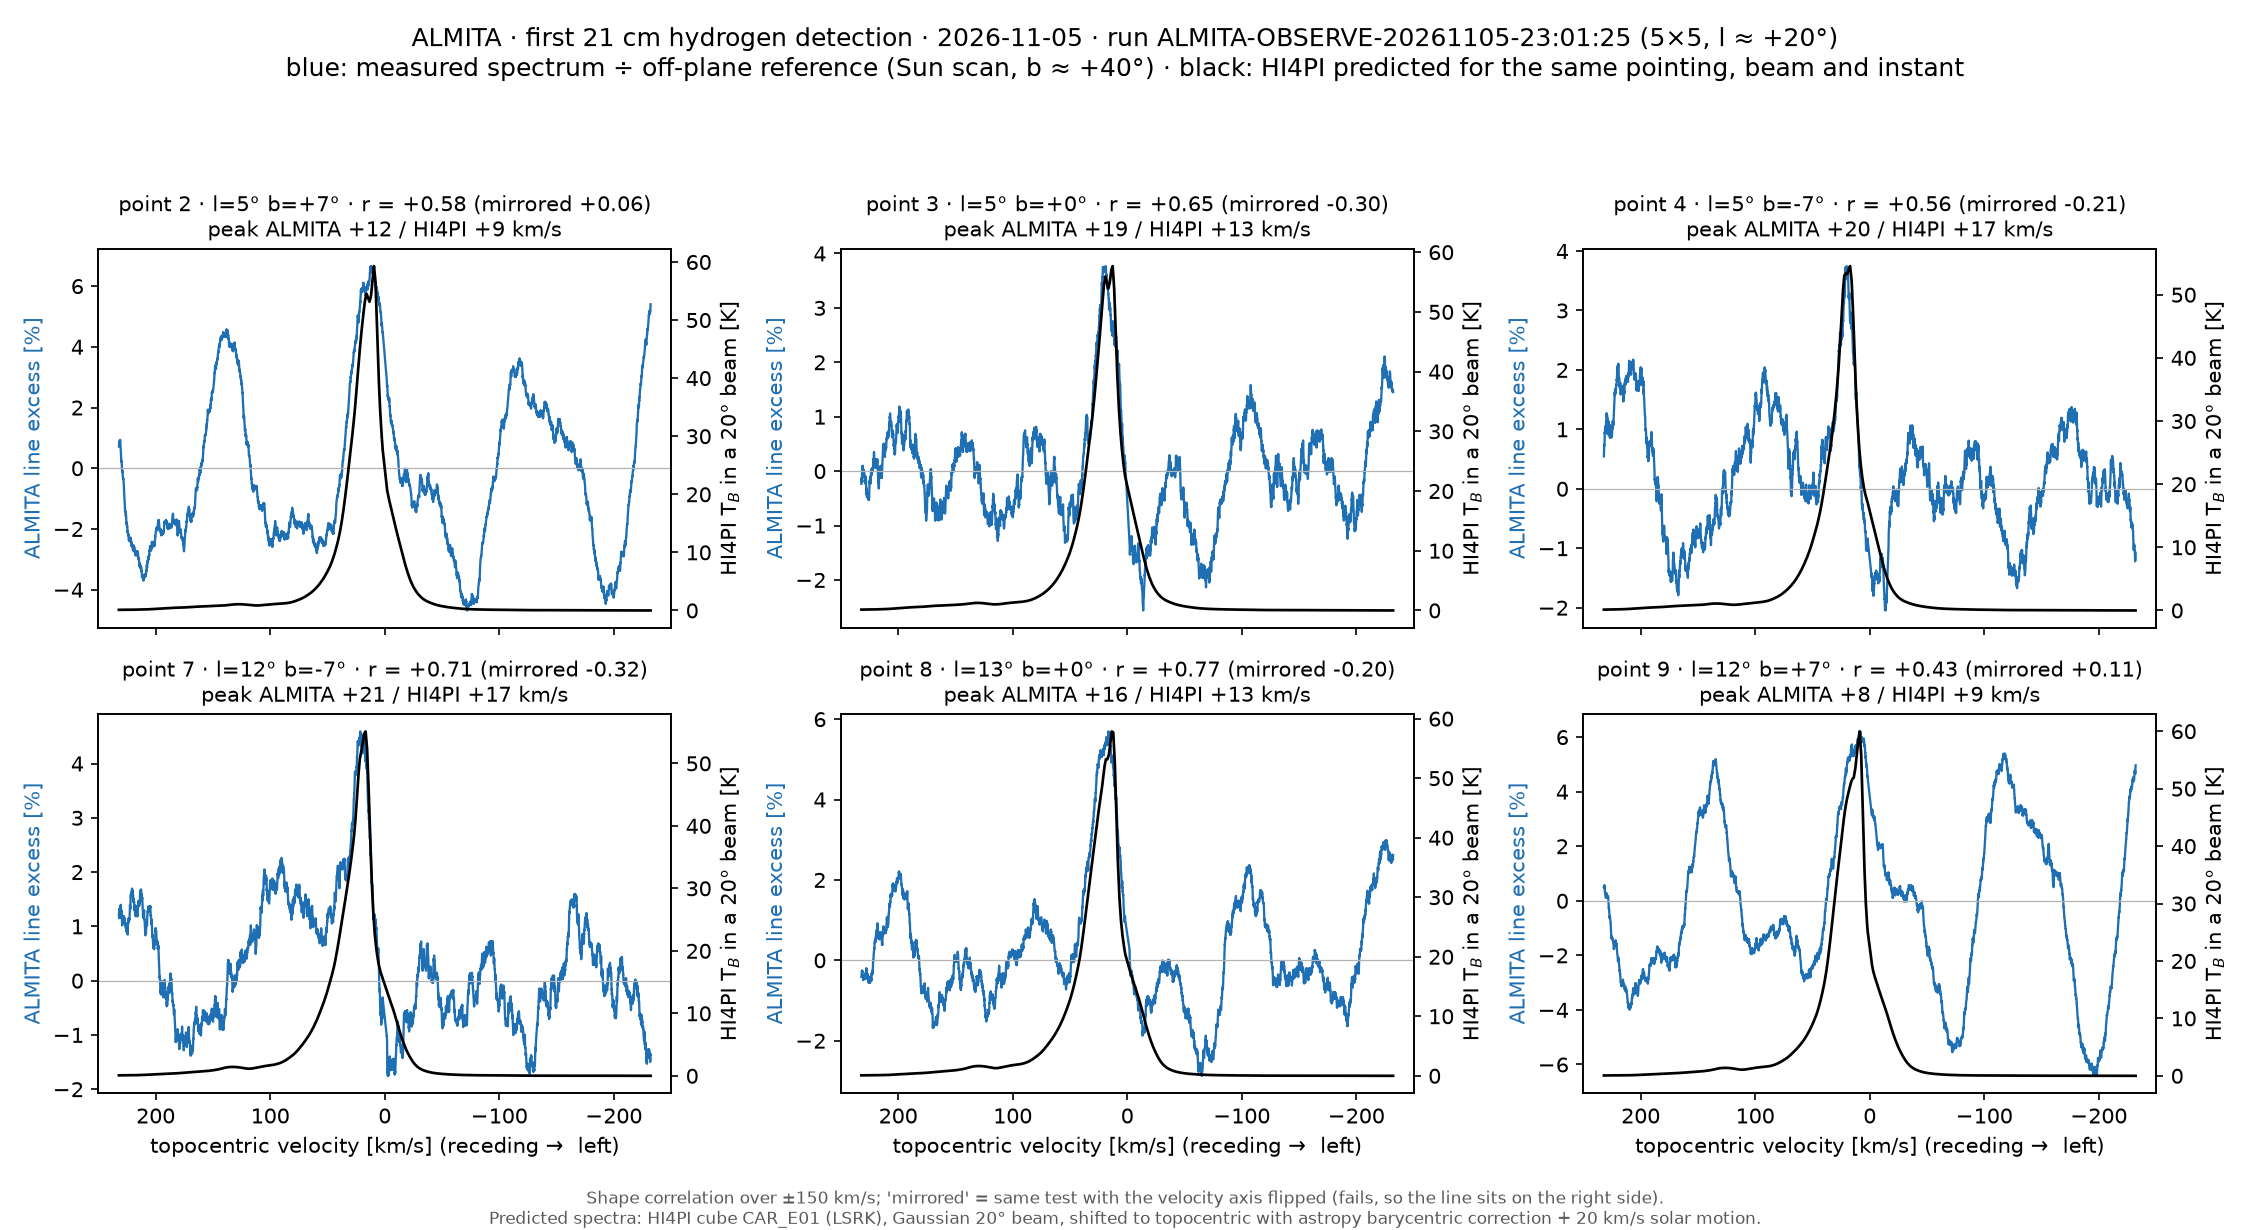
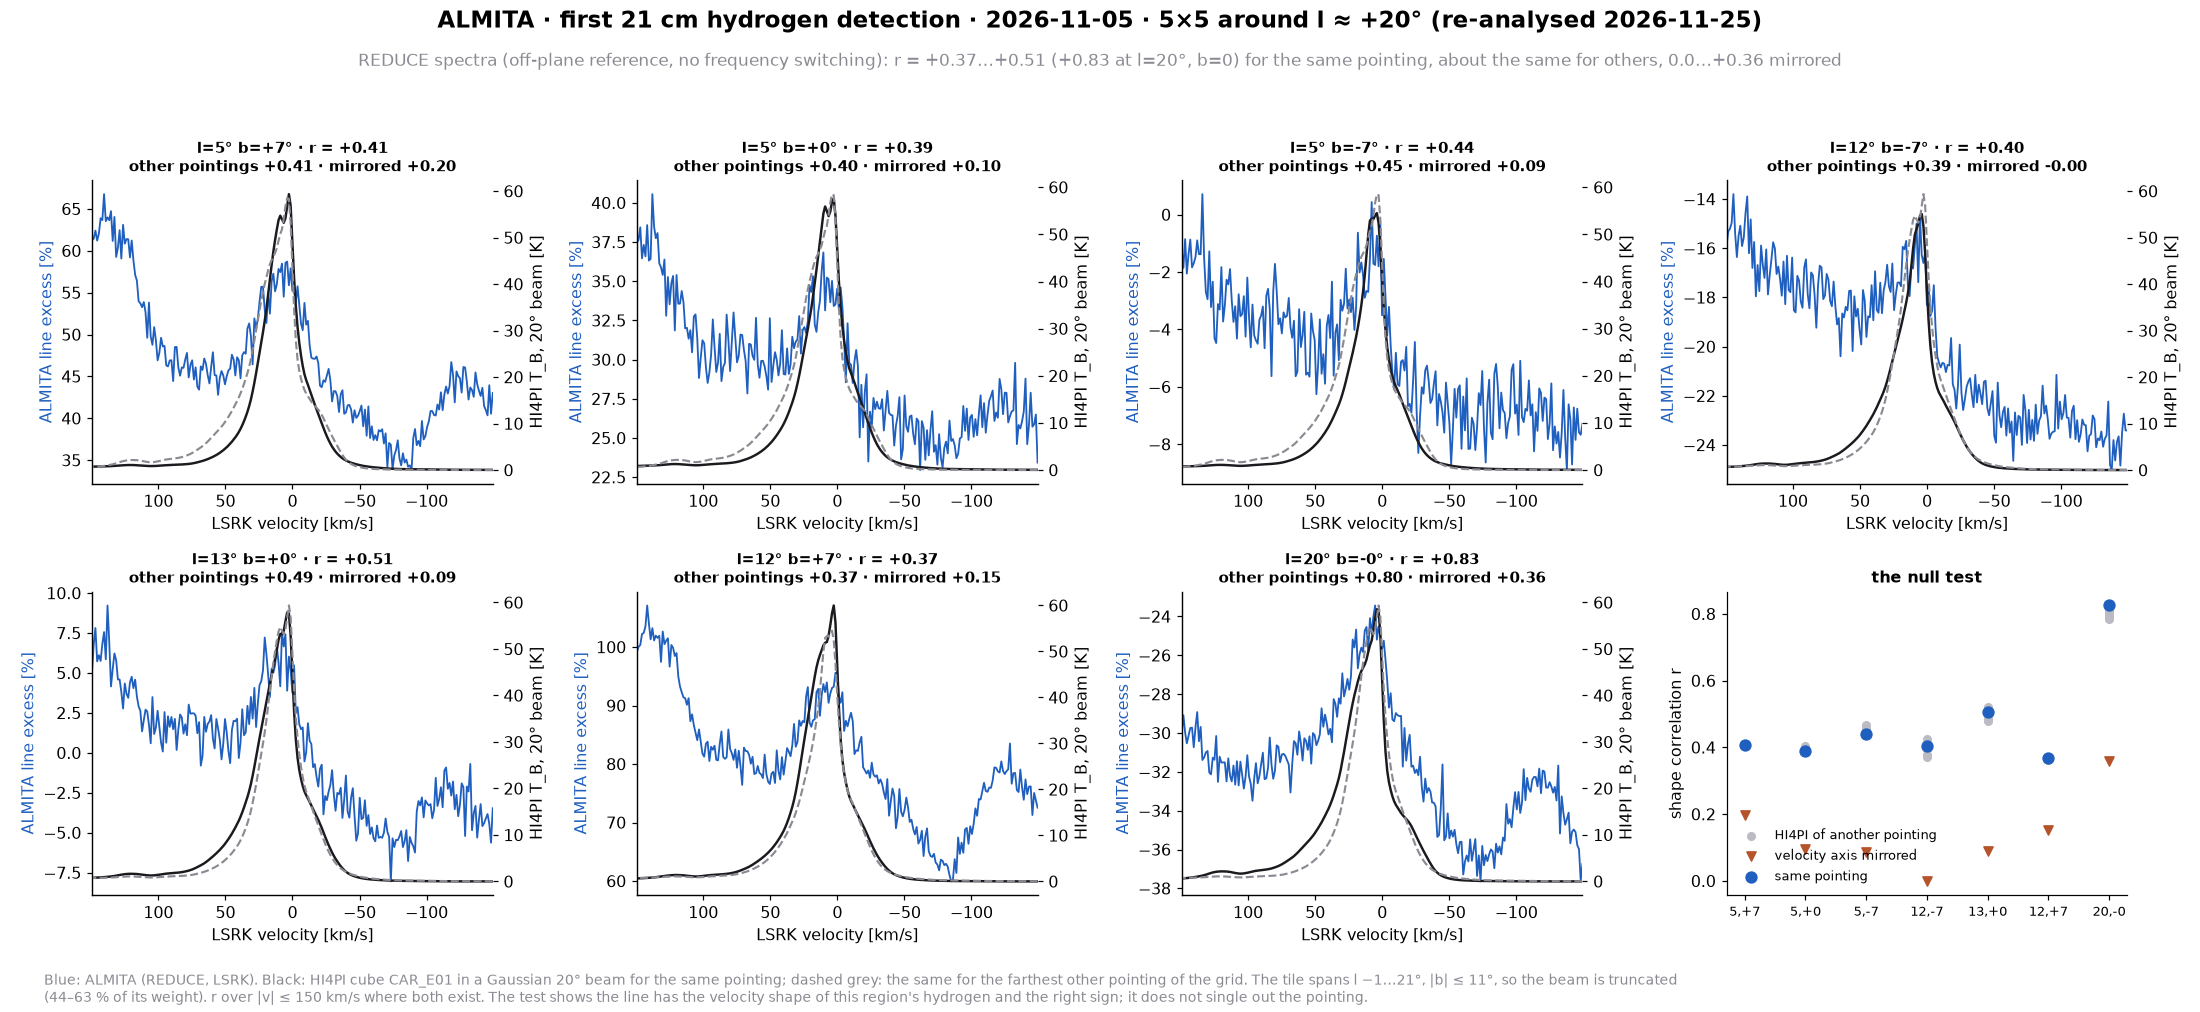
docs + site: results re-analysed (2026-11-25) - rotation speeds withdrawn, HI4PI matches with their null test
- 19-11: the disc's rotation holds; mean velocities now in a window symmetric about zero (+18 / 0 / -19 km/s;
  the off-centre switching windows had pushed them outward); the 200 +/- 15 and 218 +/- 5 km/s rotation speeds
  are withdrawn: the ON/OFF baseline wanders more than the edge threshold and half of V is the assumed V0.
  The l = +30 deg edge (+104 +/- 2 km/s) stays.
- 12-11 and 05-11: shape correlations with HI4PI shown against the null (another pointing correlates almost as
  well), the truncated beam stated, the retracted peak offset removed; 05-11 now from REDUCE (+0.37..+0.51).
- Bench numbers flagged as no longer re-checkable.
- The three result figures redrawn from the re-analysis.

diff --git a/docs/site/index.html b/docs/site/index.html
@@ -116,43 +116,47 @@
   <p>
     A full afternoon with the survey pilot running on its own: 99 captures of 2 minutes, none failed. Along the Galactic plane the hydrogen
     spreads to positive velocities on one side of the centre and to negative velocities on the other, and the spread grows away from the
-    centre: the disc rotates. A position-switched run at sunset gave rotation speeds of 200 ± 15 km/s at 2.8 kpc and 218 ± 5 km/s at 4.1 kpc
-    from the Galactic Centre, inside the range professional surveys measure.
+    centre: the disc rotates. A position-switched run at sunset puts the edge of the line at l = +30° at +104 ± 2 km/s; turning that into
+    a rotation speed still needs the Sun's own assumed speed for half of it, and at l = −20° the edge depends on the threshold
+    (re-analysis, 25 November 2026: the earlier 200 ± 15 and 218 ± 5 km/s are withdrawn).
   </p>
   <figure>
-    <a href="results/rotation_20261119.png"><img src="results/rotation_20261119.png" width="1980" height="1452" loading="lazy"
-         alt="ALMITA spectra along the Galactic plane, a map of mean hydrogen velocity, position-switched spectra and rotation speeds against the professional range"></a>
-    <figcaption>One afternoon, relative intensities, one ON/OFF run per direction: coarse numbers, not a calibrated curve. A 20° beam averages
-      a wide stretch of the Galaxy (l = −30° comes out high; l = ±10° and +20° gave no clean edge). The Magellanic Clouds were tried the same
+    <a href="results/rotation_20261119.png"><img src="results/rotation_20261119.png" width="1870" height="1375" loading="lazy"
+         alt="ALMITA spectra along the Galactic plane, the mean hydrogen velocity in symmetric and off-centre windows, position-switched spectra with their edges, and each rotation speed split into the measured edge and the assumed solar speed"></a>
+    <figcaption>One afternoon, relative intensities, one ON/OFF run per direction: coarse numbers, not a rotation curve. The ON/OFF baseline
+      wanders ±1–2 % (OFFs 20–40° higher than ONs) against an edge threshold of ~0.45 %, and a 20° beam averages a wide stretch of the Galaxy
+      (l = −30°, ±10° and +20° gave no clean edge). Mean velocities in a window symmetric about zero: +18 to −19 km/s from l = +30° to −30°. The Magellanic Clouds were tried the same
       evening and not detected: the rooftop direction they lie in is about 50 % noisier than the empty-sky references.</figcaption>
   </figure>
   <h3>Hydrogen with frequency switching, repeated and matched · 12 November 2026</h3>
   <p>
     A week later the same 5 × 5 mosaic around l ≈ +20° was observed again, now with frequency switching (40 s per pointing) and a new
-    feed with a Pawsey balun and a reflector plate. The line shows up in all 25 pointings. For the six pointings inside the reference
-    cube, the switched spectra match HI4PI's prediction for the same pointing and 20° beam with a shape correlation of
-    +0.94 to +0.99 (5 November: +0.43 to +0.77), on a flat baseline. The receiver's Y-factor was 4.71 dB, a system temperature of about 120 K.
+    feed with a Pawsey balun and a reflector plate. The line shows up in all 25 pointings. For the seven pointings inside the HI4PI tile,
+    the switched spectra have the velocity shape of this region's hydrogen (shape correlation +0.95 to +0.99, mirrored +0.29 to +0.65),
+    on a flat baseline. HI4PI's spectrum of another pointing correlates almost as well (+0.91 to +0.98), so this is not a
+    pointing-by-pointing match. The receiver's Y-factor was 4.71 dB, a system temperature of about 120 K.
   </p>
   <figure>
-    <a href="results/hi_frequency_switched_20261112.png"><img src="results/hi_frequency_switched_20261112.png" width="2244" height="1188" loading="lazy"
-         alt="Six frequency-switched 21 cm spectra from ALMITA in blue against the HI4PI prediction for the same pointing and 20 degree beam in black"></a>
-    <figcaption>Blue: ALMITA, frequency-switched and folded by REDUCE, LSRK velocity. Black: HI4PI predicted for the same pointing and beam.
-      Still relative, not Kelvin. Peaks sit 3–10 km/s above HI4PI's, not yet explained. The Magellanic Clouds, at ~1–2 % of the system
+    <a href="results/hi_frequency_switched_20261112.png"><img src="results/hi_frequency_switched_20261112.png" width="2200" height="1012" loading="lazy"
+         alt="Seven frequency-switched 21 cm spectra from ALMITA in blue against HI4PI for the same pointing in black and for another pointing in dashed grey, with the null test"></a>
+    <figcaption>Blue: ALMITA, frequency-switched and folded by REDUCE, LSRK velocity. Black: HI4PI for the same pointing in a 20° beam truncated
+      at the tile edge; dashed grey: another pointing. Still relative, not Kelvin. The velocity offset reported earlier was an artefact of
+      comparing peaks (whole-profile fit: +0.06 km/s). The Magellanic Clouds, at ~1–2 % of the system
       noise, were not detected the same night: the switching leaves a ±1–2 % baseline that depends on where the dish points.</figcaption>
   </figure>
   <h3>First 21 cm hydrogen detection · 5 November 2026</h3>
   <p>
     On its first night on a rooftop, in a 5 × 5 mosaic around galactic longitude l ≈ +20°, ALMITA saw the hydrogen line where the
-    HI4PI all-sky survey says it should be. For the six pointings inside the reference cube, the measured line has the shape HI4PI predicts
-    for the same pointing, the same 20° beam and the same instant (shape correlation +0.43 to +0.77). With the velocity axis flipped,
-    the match fails.
+    HI4PI all-sky survey says it should be: with the velocity axis flipped, the match fails. Re-analysed with the REDUCE spectra the
+    shape correlation is +0.37 to +0.51 (+0.83 at l = 20°, b = 0), and about the same for another pointing: hydrogen with the right
+    velocity sign, not yet a pointing-by-pointing match.
   </p>
   <figure>
-    <a href="results/hi_detection_20261105.png"><img src="results/hi_detection_20261105.png" width="2250" height="1230" loading="lazy"
-         alt="Six measured 21 cm spectra in blue against the HI4PI prediction for the same pointing, beam and instant in black"></a>
-    <figcaption>Blue: ALMITA, relative to an off-plane reference. Black: HI4PI predicted for the same pointing, beam and instant.
-      One night, not yet repeated and not calibrated. The ±2–6 % waves around the line are the receiver, not the sky. The peaks
-      sit 3–6 km/s above HI4PI's, which is not yet explained, and an earlier strip at l = +10…+30° showed nothing.</figcaption>
+    <a href="results/hi_detection_20261105.png"><img src="results/hi_detection_20261105.png" width="2200" height="1012" loading="lazy"
+         alt="Seven measured 21 cm spectra from 5 November in blue against HI4PI for the same pointing in black and another pointing in dashed grey, with the null test"></a>
+    <figcaption>Blue: ALMITA (REDUCE), relative to an off-plane reference. Black: HI4PI for the same pointing; dashed grey: another pointing.
+      One night, not calibrated. Without switching the baseline drifts ~0.5 % within one capture. An earlier strip at l = +10…+30°
+      showed nothing.</figcaption>
   </figure>
   <h3>Frequency switching · November 2026</h3>
   <p>
@@ -163,7 +167,7 @@
     <a href="results/frequency_switching_bench.png"><img src="results/frequency_switching_bench.png" width="1112" height="1220" loading="lazy"
          alt="Bench test: receiver band shape of ±14.6 % versus 0.29 % noise in one switched 10 s pointing and 0.06 % in the mean of 400"></a>
     <figcaption>Bench test with the LNA and the SDR but no antenna, so no sky signal is expected. One 10 s pointing: 0.29 % noise. Mean of
-      400 pointings: 0.06 % rms left of the receiver. A steady local carrier at 1420.040 MHz is masked. The first open-sky test across the
+      400 pointings: 0.06 % rms left of the receiver (these captures are no longer on disk and could not be re-checked). A steady local carrier at 1420.040 MHz is masked. The first open-sky test across the
       Milky Way is next. Tap a figure for full size.</figcaption>
   </figure>
 

diff --git a/README.md b/README.md
@@ -78,22 +78,29 @@ reduced and moved on. 99 captures of 2 minutes, none failed. Seven directions al
 and two off the plane were each observed several times.
 
 On one side of the Galactic Centre the hydrogen spreads to **positive** velocities (receding), on the other side to **negative**
-velocities (approaching), and the spread grows away from the centre: the disc rotates. The mean velocity of the line goes from
-+23 km/s at l = +30° to −26 km/s at l = −30°, through +2 km/s at the centre.
+velocities (approaching), and the spread grows away from the centre: the disc rotates. Measured in a velocity window symmetric
+about zero, the mean velocity of the line goes from +18 km/s at l = +30° to −19 km/s at l = −30°, through 0 at the centre. (The
+first version of this page gave +23 / +2 / −26 km/s: the switching windows had been centred toward the terminal side, which
+pushes the mean outward, by up to 3–5 times at l = ±10° and ±20°. The sign pattern is the same with any window.)
 
 At sunset the same directions were observed once more with **position switching** (sky ON minus an empty sky OFF at the same
-tuning), which has no switching ghost. From the edge of the line (the terminal velocity) the tangent-point method gives
-rotation speeds of **200 ± 15 km/s at 2.8 kpc** (l = −20°) and **218 ± 5 km/s at 4.1 kpc** (l = +30°) from the Galactic Centre,
-inside the range professional surveys measure (~200–235 km/s).
+tuning), which has no switching ghost. At l = +30° the edge of the line (the terminal velocity) is **+104 ± 2 km/s** whichever
+threshold is used. **This is not yet a rotation speed.** The tangent-point method adds the Sun's own speed, V = |v_t| + V0 |sin l|,
+and with the usual V0 = 220 km/s that assumption supplies half of the ~215 km/s. At l = −20° the edge moves from −129 to −182 km/s
+(V from 204 to 257 km/s) depending on the threshold, because the ON/OFF baseline wanders by ±1–2 % while the edge threshold is
+~0.45 %. (The first version of this page gave 200 ± 15 and 218 ± 5 km/s; a re-analysis on 25 November 2026 showed those error
+bars left out the threshold choice and the baseline.)
 
 <p align="center">
-  <img src="docs/site/results/rotation_20261119.png" alt="ALMITA 21 cm spectra along the Galactic plane, a map of mean hydrogen velocity (red receding, blue approaching), position-switched spectra with their terminal edges, and rotation speeds of 200 and 218 km/s at 2.8 and 4.1 kpc against the professional range" width="100%">
+  <img src="docs/site/results/rotation_20261119.png" alt="ALMITA 21 cm spectra along the Galactic plane with the velocity window each covers, the mean hydrogen velocity in symmetric and off-centre windows, two position-switched spectra with their terminal edges at two thresholds, and the split of each rotation speed into the measured edge and the assumed solar speed" width="100%">
 </p>
 
 Caveats:
-- **One afternoon, relative intensities, one ON/OFF run per direction.** These are coarse numbers, not a calibrated rotation curve.
-- **A 20° beam averages a wide stretch of the Galaxy.** At l = −30° the edge is pulled out by faster gas from smaller l (248 km/s,
-  above the range). Near the centre (l = ±10°, +20°) there was no clean edge.
+- **One afternoon, relative intensities, one ON/OFF run per direction.** These are coarse numbers, not a rotation curve.
+- **The OFFs were observed 20–40° higher in the sky than the ONs,** so the ON/OFF baseline is not flat. ON and OFF at the same
+  elevation, alternated many times, is the next step.
+- **A 20° beam averages a wide stretch of the Galaxy** and moves the edge by tens of km/s. At l = −30°, ±10° and +20° there was no
+  clean edge.
 - **Frequency switching with a ±300 kHz throw puts an inverted copy of the line 127 km/s away,** right where the terminal velocities
   are. That is why the terminal velocities come from the ON/OFF run. Two known RFI carriers are interpolated there.
 - **The Magellanic Clouds were tried the same evening and not detected.** The rooftop direction they lie in shows about +50 % more
@@ -105,39 +112,45 @@ A week after the first detection, the same 5 × 5 mosaic around l ≈ +20° was 
 **frequency switching** (40 s per pointing) and a new feed (Pawsey balun, reflector plate). The hydrogen line shows up in all
 25 pointings, and its velocity shifts from pointing to pointing as the gas along each line of sight does.
 
-For the six pointings inside the reference cube, the frequency-switched spectra from REDUCE match what HI4PI predicts for the
-same pointing and the same 20° beam with a **shape correlation of +0.94 to +0.99** (5 November: +0.43 to +0.77). The line now
-stands on a flat baseline: the leftover receiver structure dropped from ~2.9 % to ~0.75 %, against a line of 14–18 % of the
-system noise.
+For the seven pointings inside the HI4PI reference tile, the frequency-switched spectra from REDUCE have the velocity shape of the
+hydrogen HI4PI sees in this region: **shape correlation +0.95 to +0.99**, and +0.29 to +0.65 with the velocity axis mirrored. What
+this test does **not** show is that each spectrum matches its own pointing: HI4PI's spectrum of *another* pointing of the same
+grid gives +0.91 to +0.98 (re-analysis, 25 November 2026). The tile on disk spans l −1…21°, |b| ≤ 11°, so the 20° beam is
+truncated to 44–63 % of its weight. The line now stands on a flat baseline: the leftover receiver structure dropped from ~2.9 %
+to ~0.75 %, against a line of 14–18 % of the system noise.
 
 <p align="center">
-  <img src="docs/site/results/hi_frequency_switched_20261112.png" alt="Six frequency-switched 21 cm spectra from ALMITA (blue) against the HI4PI prediction for the same pointing and 20° beam (black); shape correlation +0.94 to +0.99" width="100%">
+  <img src="docs/site/results/hi_frequency_switched_20261112.png" alt="Seven frequency-switched 21 cm spectra from ALMITA (blue) against HI4PI for the same pointing (black) and for another pointing of the grid (dashed grey), and the null test: correlations for the same pointing, other pointings and the mirrored axis" width="100%">
 </p>
 
 The same night:
 - **Receiver Y-factor 4.71 dB** (50 Ω load against cold sky at 74° elevation), so a system temperature of about 120 K
   (assuming the LNA's datasheet noise). It was 1.53 dB on 5 November.
-- **Still relative, not Kelvin.** Peaks sit 3–10 km/s above HI4PI's, as on 5 November; this is not explained yet.
+- **Still relative, not Kelvin.** An earlier version of this page said the peaks sit 3–10 km/s above HI4PI's: that came from
+  comparing the maxima of flat-topped profiles. Fitting the whole profile gives +0.06 km/s, and the LSRK correction was checked
+  against an independent calculation (5 m/s, sign included).
 - **The Magellanic Clouds were not detected.** Their line is only ~1–2 % of the system noise, and the switching leaves a
   baseline of ±1–2 % that depends on where the dish points. Removing that baseline is the next step.
 
 ### First 21 cm hydrogen detection (5 November 2026)
 
 On its first night on a rooftop, in a 5 × 5 mosaic around galactic longitude l ≈ +20°, ALMITA saw the hydrogen line where
-the HI4PI all-sky survey says it should be. For the six pointings inside the reference cube, the measured line has the shape
-HI4PI predicts for the **same pointing, the same 20° beam and the same instant** (shape correlation +0.43 to +0.77). The
-same test with the velocity axis flipped fails, so the line sits on the correct side. The peak velocity follows the predicted
-one from point to point.
+the HI4PI all-sky survey says it should be. With the velocity axis flipped, the match with HI4PI fails, so the line sits on the
+correct side. Re-analysed on 25 November 2026 with the REDUCE spectra, the shape correlation with HI4PI is +0.37 to +0.51
+(+0.83 at l = 20°, b = 0; mirrored 0.0 to +0.36). As on 12 November, HI4PI's spectrum of another pointing correlates about as
+well, so the test shows hydrogen with the right velocity sign, not a pointing-by-pointing match. (The first version of this page
+gave +0.43 to +0.77 for "the same pointing, beam and instant", from the quick-look spectra.)
 
 <p align="center">
-  <img src="docs/site/results/hi_detection_20261105.png" alt="Six measured 21 cm spectra (blue) against the HI4PI prediction for the same pointing, beam and instant (black)" width="100%">
+  <img src="docs/site/results/hi_detection_20261105.png" alt="Seven measured 21 cm spectra from 5 November (blue, REDUCE) against HI4PI for the same pointing (black) and another pointing (dashed grey), and the null test" width="100%">
 </p>
 
 What this is **not** yet:
 - **Not a calibrated measurement.** The spectra are relative: each one is divided by an off-plane reference taken minutes
   earlier, and the receiver's ripple of ±2–6 % that remains is larger than everything except the line itself.
 - **Not yet repeated.**
-- **Peaks sit 3–6 km/s above HI4PI's.** This is not explained yet.
+- **Without switching, the baseline drifts ~0.5 % within a single 20 s capture,** so integrals over the line carry about twice the
+  error REDUCE reports.
 - **An earlier strip the same night (l = +10…+30°) showed nothing.** That is still an open question.
 
 That leftover ripple is why the next step was frequency switching.
@@ -154,7 +167,8 @@ the line are folded back together.
   <img src="docs/site/results/frequency_switching_bench.png" alt="Bench test: receiver band shape of ±14.6 % (top) versus 0.29 % noise in one 10 s switched pointing and 0.06 % residual in the mean of 400" width="80%">
 </p>
 
-This is a **bench test** with the LNA and the SDR but no antenna, so no sky signal is expected. On 400 pointings of 10 s each:
+This is a **bench test** with the LNA and the SDR but no antenna, so no sky signal is expected (the 400 captures are no longer
+on disk, so these two numbers could not be re-checked in November's re-analysis). On 400 pointings of 10 s each:
 - the noise of one pointing is **0.29 %** (about 4 km/s resolution), close to the theoretical limit;
 - what is left of the receiver in the mean of all 400 is **0.06 % rms**.
 
